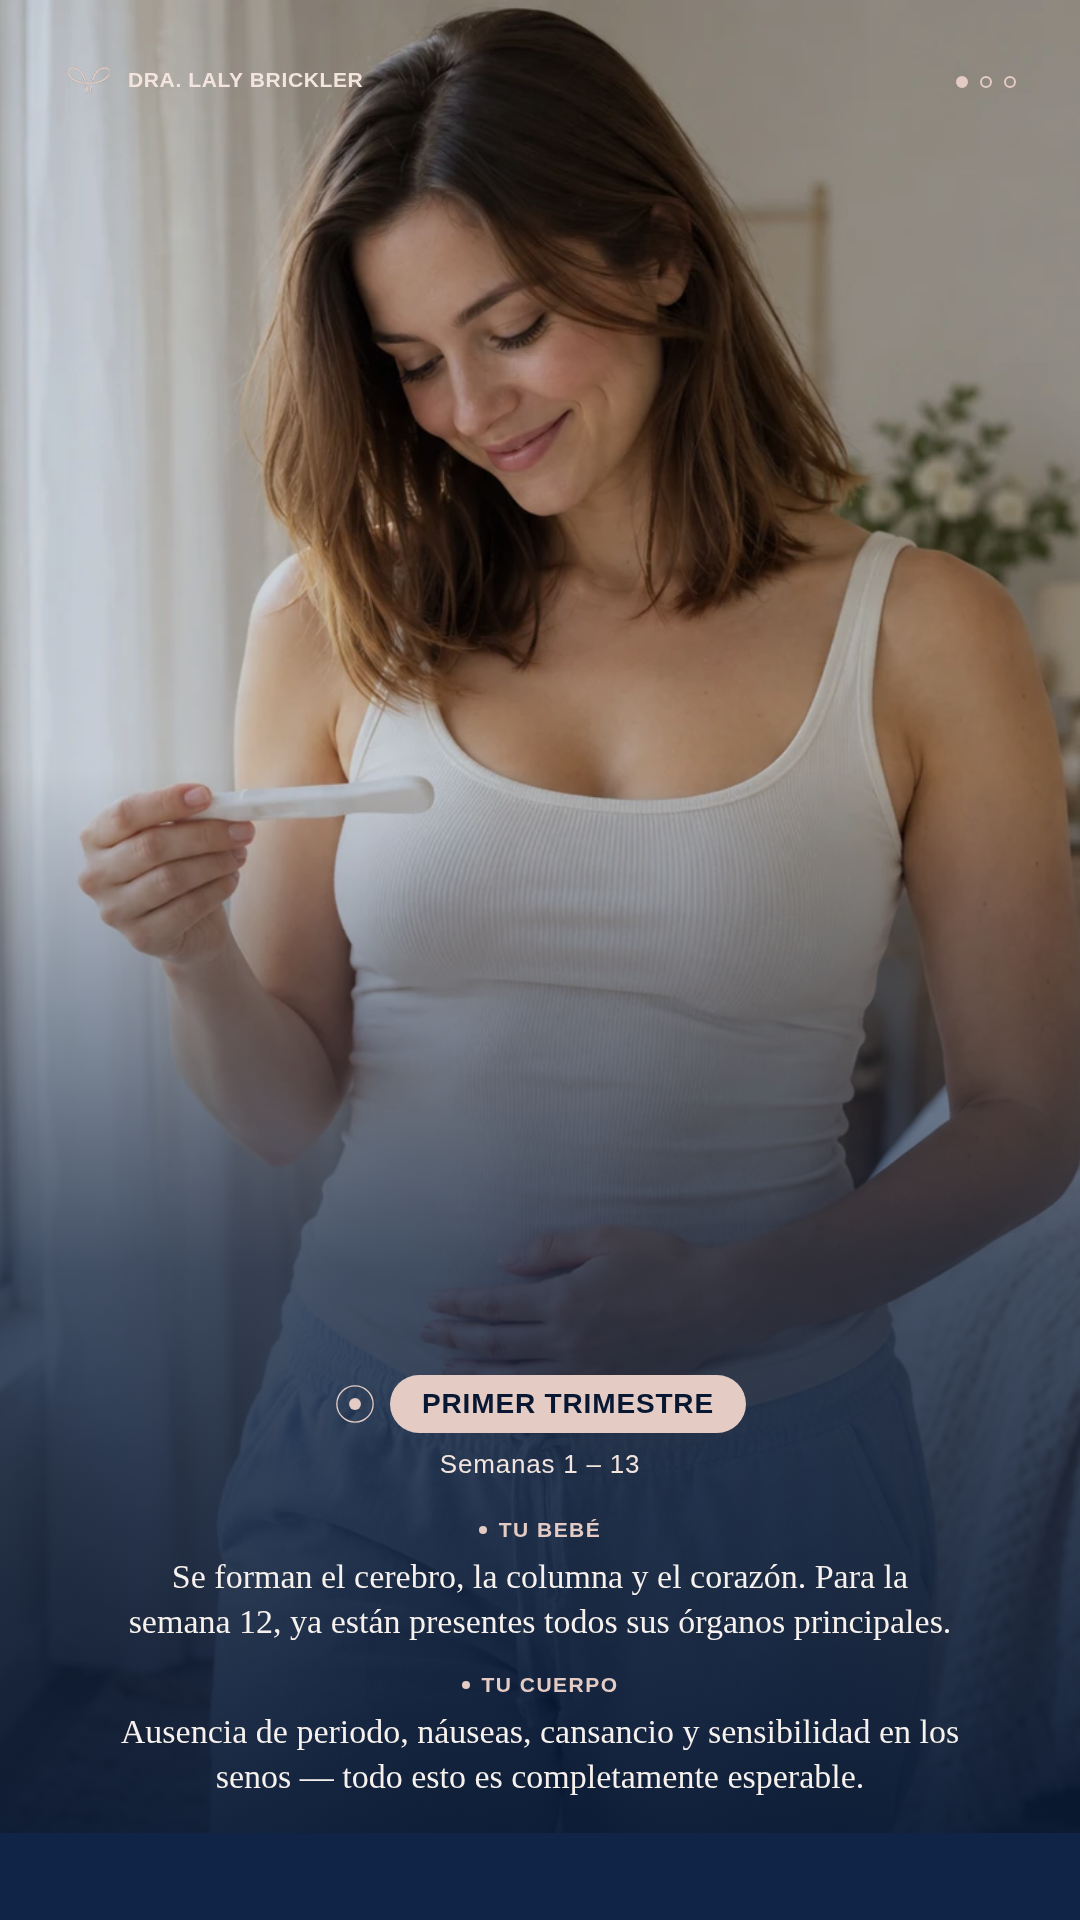
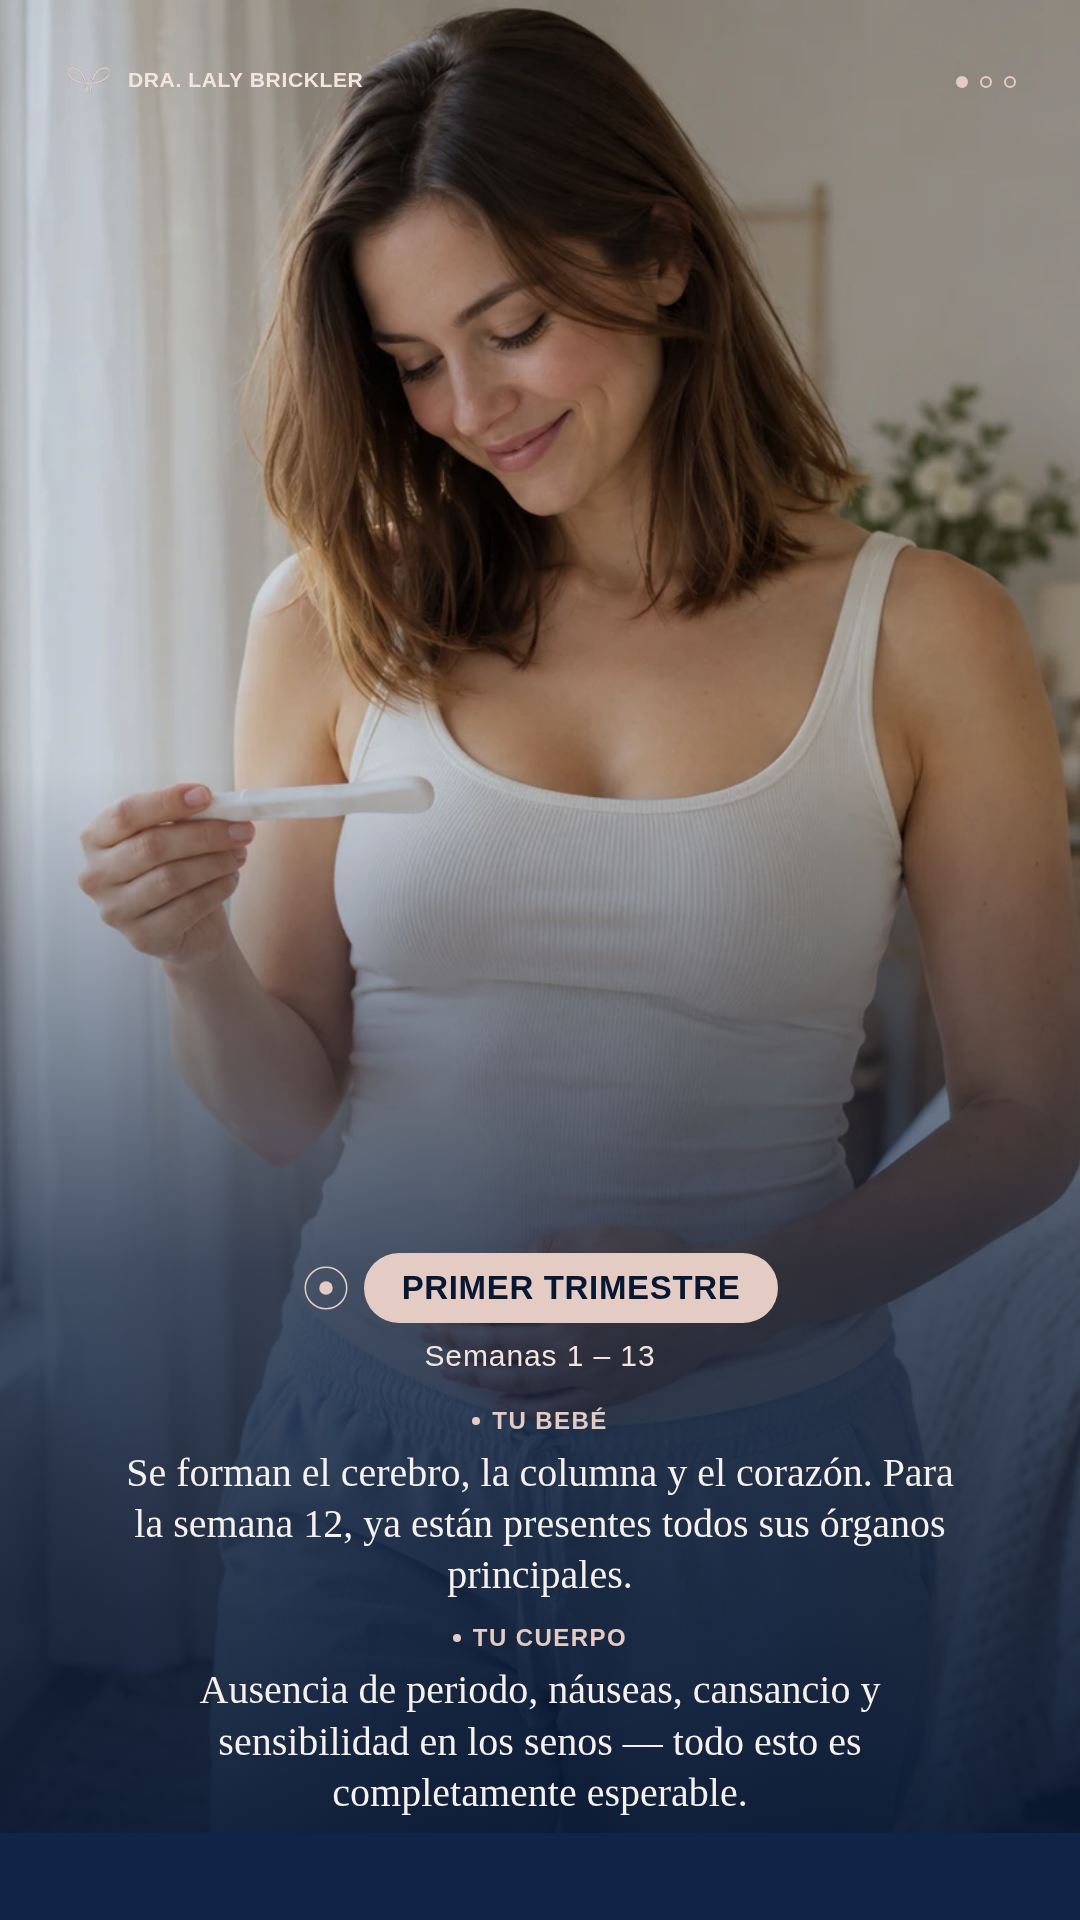
Further enlarge type on trimester slides 2, 3 and 4
Claude-Session: https://claude.ai/code/session_01LtTLwZrPZbyahK5aD18j7d

Changed region(s): [[0.1222, 0.625, 0.8861, 0.9375], [0.8556, 0.875, 0.8861, 0.9062], [0.275, 0.6562, 0.3056, 0.6875]]

diff --git a/assets/export-embarazo/slide-3-t2.html b/assets/export-embarazo/slide-3-t2.html
@@ -18,16 +18,16 @@ html,body{width:1080px;height:1920px;overflow:hidden;background:#0F2446;font-fam
 .dot{width:12px;height:12px;border-radius:50%;border:2px solid #E4CCC5}
 .dot.on{background:#E4CCC5}
 
-.body{position:absolute;inset:0;z-index:2;display:flex;flex-direction:column;justify-content:flex-end;align-items:center;padding:0 72px 92px;text-align:center}
+.body{position:absolute;inset:0;z-index:2;display:flex;flex-direction:column;justify-content:flex-end;align-items:center;padding:0 72px 78px;text-align:center}
 .badge-row{display:flex;align-items:center;gap:14px;margin-bottom:16px}
 .badge-row svg{flex:none}
-.badge{background:#E4CCC5;color:#081833;font-weight:700;font-size:28px;letter-spacing:.03em;padding:13px 32px;border-radius:999px;text-transform:uppercase}
-.weeks{color:#F3E4DE;font-size:26px;letter-spacing:.03em;margin-bottom:38px;font-weight:500}
+.badge{background:#E4CCC5;color:#081833;font-weight:700;font-size:33px;letter-spacing:.02em;padding:16px 38px;border-radius:999px;text-transform:uppercase}
+.weeks{color:#F3E4DE;font-size:30px;letter-spacing:.03em;margin-bottom:34px;font-weight:500}
 
-.stat{width:100%;max-width:840px;margin-bottom:28px}
-.stat .label{display:flex;align-items:center;justify-content:center;gap:12px;font-size:21px;letter-spacing:.07em;text-transform:uppercase;color:#E4CCC5;font-weight:700;margin-bottom:12px}
+.stat{width:100%;max-width:860px;margin-bottom:24px}
+.stat .label{display:flex;align-items:center;justify-content:center;gap:12px;font-size:24px;letter-spacing:.06em;text-transform:uppercase;color:#E4CCC5;font-weight:700;margin-bottom:12px}
 .stat .label::before{content:"";width:8px;height:8px;border-radius:50%;background:#E4CCC5}
-.stat p{font-family:'Fraunces',Georgia,serif;color:#F6F1ED;font-size:34px;line-height:1.34;font-weight:500}
+.stat p{font-family:'Fraunces',Georgia,serif;color:#F6F1ED;font-size:40px;line-height:1.28;font-weight:500}
 </style></head>
 <body>
 <div class="frame">
@@ -39,7 +39,7 @@ html,body{width:1080px;height:1920px;overflow:hidden;background:#0F2446;font-fam
 
   <div class="body">
     <div class="badge-row">
-      <svg width="42" height="42" viewBox="0 0 220 220"><circle cx="110" cy="110" r="95" fill="none" stroke="#E4CCC5" stroke-width="7"/><circle cx="110" cy="110" r="63" fill="#E4CCC5"/></svg>
+      <svg width="48" height="48" viewBox="0 0 220 220"><circle cx="110" cy="110" r="95" fill="none" stroke="#E4CCC5" stroke-width="7"/><circle cx="110" cy="110" r="63" fill="#E4CCC5"/></svg>
       <span class="badge">Segundo trimestre</span>
     </div>
     <span class="weeks">Semanas 14 – 27</span>

diff --git a/assets/export-embarazo/slide-4-t3.html b/assets/export-embarazo/slide-4-t3.html
@@ -18,16 +18,16 @@ html,body{width:1080px;height:1920px;overflow:hidden;background:#0F2446;font-fam
 .dot{width:12px;height:12px;border-radius:50%;border:2px solid #E4CCC5}
 .dot.on{background:#E4CCC5}
 
-.body{position:absolute;inset:0;z-index:2;display:flex;flex-direction:column;justify-content:flex-end;align-items:center;padding:0 72px 92px;text-align:center}
+.body{position:absolute;inset:0;z-index:2;display:flex;flex-direction:column;justify-content:flex-end;align-items:center;padding:0 72px 78px;text-align:center}
 .badge-row{display:flex;align-items:center;gap:14px;margin-bottom:16px}
 .badge-row svg{flex:none}
-.badge{background:#E4CCC5;color:#081833;font-weight:700;font-size:28px;letter-spacing:.03em;padding:13px 32px;border-radius:999px;text-transform:uppercase}
-.weeks{color:#F3E4DE;font-size:26px;letter-spacing:.03em;margin-bottom:38px;font-weight:500}
+.badge{background:#E4CCC5;color:#081833;font-weight:700;font-size:33px;letter-spacing:.02em;padding:16px 38px;border-radius:999px;text-transform:uppercase}
+.weeks{color:#F3E4DE;font-size:30px;letter-spacing:.03em;margin-bottom:34px;font-weight:500}
 
-.stat{width:100%;max-width:840px;margin-bottom:28px}
-.stat .label{display:flex;align-items:center;justify-content:center;gap:12px;font-size:21px;letter-spacing:.07em;text-transform:uppercase;color:#E4CCC5;font-weight:700;margin-bottom:12px}
+.stat{width:100%;max-width:860px;margin-bottom:24px}
+.stat .label{display:flex;align-items:center;justify-content:center;gap:12px;font-size:24px;letter-spacing:.06em;text-transform:uppercase;color:#E4CCC5;font-weight:700;margin-bottom:12px}
 .stat .label::before{content:"";width:8px;height:8px;border-radius:50%;background:#E4CCC5}
-.stat p{font-family:'Fraunces',Georgia,serif;color:#F6F1ED;font-size:34px;line-height:1.34;font-weight:500}
+.stat p{font-family:'Fraunces',Georgia,serif;color:#F6F1ED;font-size:40px;line-height:1.28;font-weight:500}
 </style></head>
 <body>
 <div class="frame">
@@ -39,7 +39,7 @@ html,body{width:1080px;height:1920px;overflow:hidden;background:#0F2446;font-fam
 
   <div class="body">
     <div class="badge-row">
-      <svg width="42" height="42" viewBox="0 0 220 220"><circle cx="110" cy="110" r="95" fill="none" stroke="#E4CCC5" stroke-width="7"/><circle cx="110" cy="110" r="93" fill="#E4CCC5"/></svg>
+      <svg width="48" height="48" viewBox="0 0 220 220"><circle cx="110" cy="110" r="95" fill="none" stroke="#E4CCC5" stroke-width="7"/><circle cx="110" cy="110" r="93" fill="#E4CCC5"/></svg>
       <span class="badge">Tercer trimestre</span>
     </div>
     <span class="weeks">Semanas 28 – 40</span>

diff --git a/assets/export-embarazo/slide-2-t1.html b/assets/export-embarazo/slide-2-t1.html
@@ -18,16 +18,16 @@ html,body{width:1080px;height:1920px;overflow:hidden;background:#0F2446;font-fam
 .dot{width:12px;height:12px;border-radius:50%;border:2px solid #E4CCC5}
 .dot.on{background:#E4CCC5}
 
-.body{position:absolute;inset:0;z-index:2;display:flex;flex-direction:column;justify-content:flex-end;align-items:center;padding:0 72px 92px;text-align:center}
+.body{position:absolute;inset:0;z-index:2;display:flex;flex-direction:column;justify-content:flex-end;align-items:center;padding:0 72px 78px;text-align:center}
 .badge-row{display:flex;align-items:center;gap:14px;margin-bottom:16px}
 .badge-row svg{flex:none}
-.badge{background:#E4CCC5;color:#081833;font-weight:700;font-size:28px;letter-spacing:.03em;padding:13px 32px;border-radius:999px;text-transform:uppercase}
-.weeks{color:#F3E4DE;font-size:26px;letter-spacing:.03em;margin-bottom:38px;font-weight:500}
+.badge{background:#E4CCC5;color:#081833;font-weight:700;font-size:33px;letter-spacing:.02em;padding:16px 38px;border-radius:999px;text-transform:uppercase}
+.weeks{color:#F3E4DE;font-size:30px;letter-spacing:.03em;margin-bottom:34px;font-weight:500}
 
-.stat{width:100%;max-width:840px;margin-bottom:28px}
-.stat .label{display:flex;align-items:center;justify-content:center;gap:12px;font-size:21px;letter-spacing:.07em;text-transform:uppercase;color:#E4CCC5;font-weight:700;margin-bottom:12px}
+.stat{width:100%;max-width:860px;margin-bottom:24px}
+.stat .label{display:flex;align-items:center;justify-content:center;gap:12px;font-size:24px;letter-spacing:.06em;text-transform:uppercase;color:#E4CCC5;font-weight:700;margin-bottom:12px}
 .stat .label::before{content:"";width:8px;height:8px;border-radius:50%;background:#E4CCC5}
-.stat p{font-family:'Fraunces',Georgia,serif;color:#F6F1ED;font-size:34px;line-height:1.34;font-weight:500}
+.stat p{font-family:'Fraunces',Georgia,serif;color:#F6F1ED;font-size:40px;line-height:1.28;font-weight:500}
 </style></head>
 <body>
 <div class="frame">
@@ -39,7 +39,7 @@ html,body{width:1080px;height:1920px;overflow:hidden;background:#0F2446;font-fam
 
   <div class="body">
     <div class="badge-row">
-      <svg width="42" height="42" viewBox="0 0 220 220"><circle cx="110" cy="110" r="95" fill="none" stroke="#E4CCC5" stroke-width="7"/><circle cx="110" cy="110" r="31" fill="#E4CCC5"/></svg>
+      <svg width="48" height="48" viewBox="0 0 220 220"><circle cx="110" cy="110" r="95" fill="none" stroke="#E4CCC5" stroke-width="7"/><circle cx="110" cy="110" r="31" fill="#E4CCC5"/></svg>
       <span class="badge">Primer trimestre</span>
     </div>
     <span class="weeks">Semanas 1 – 13</span>
